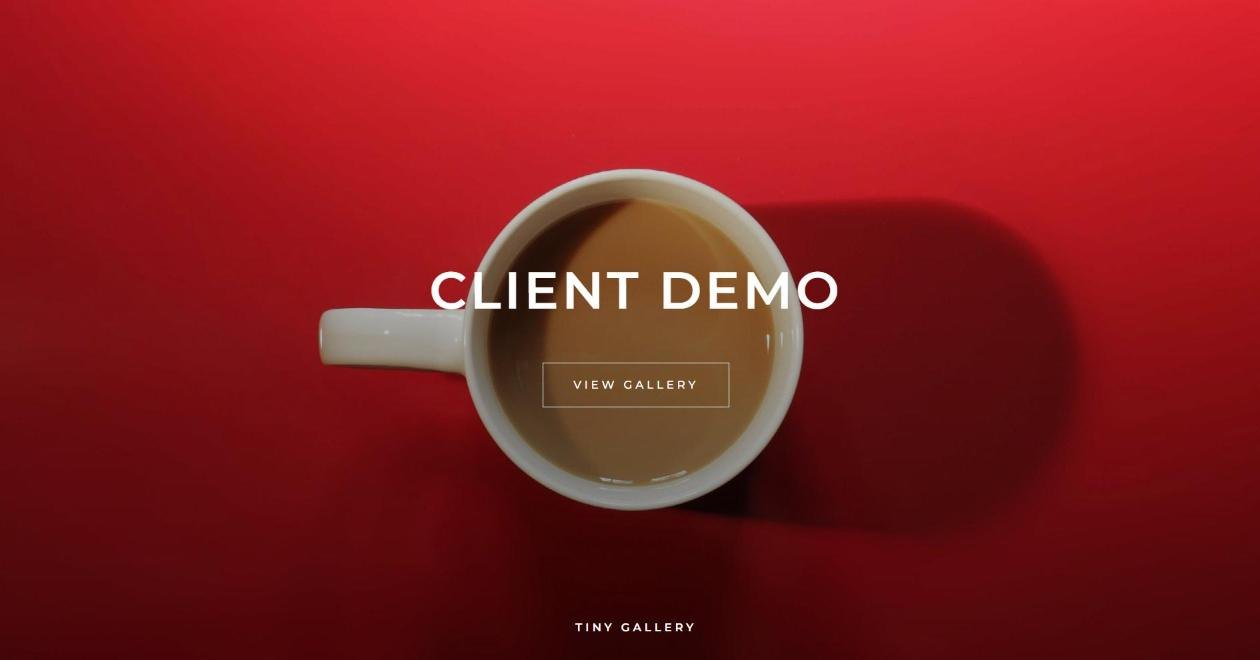
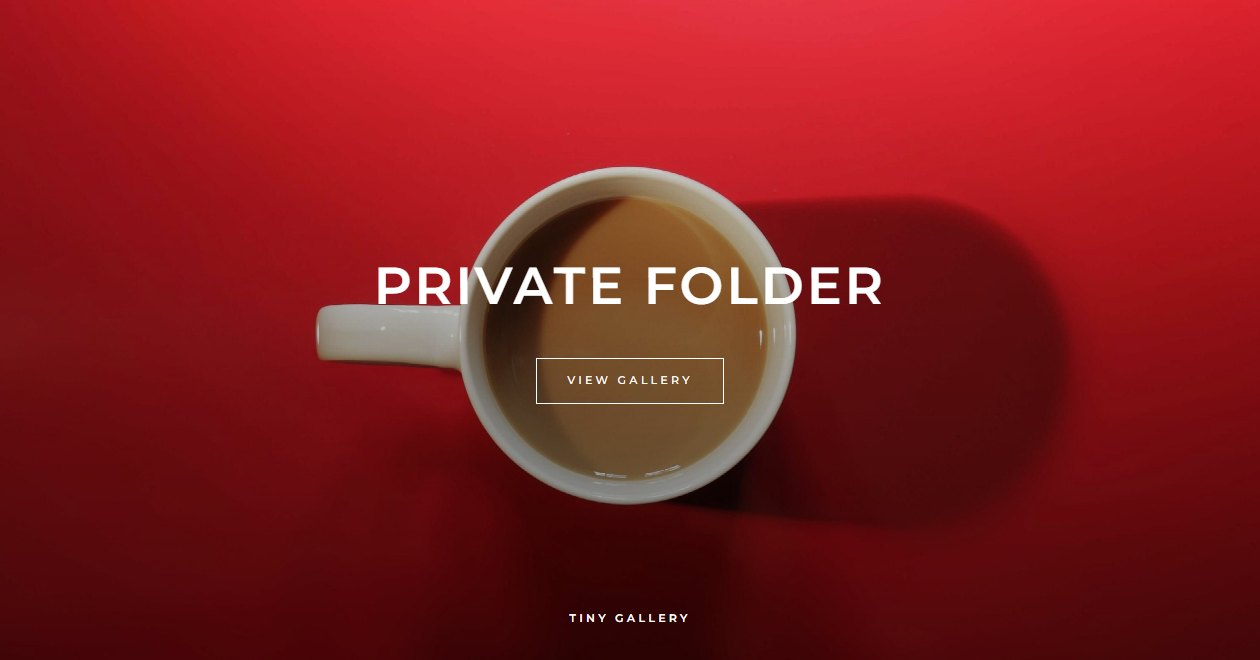
New screenshots and photo credits, hide the cover outline while selecting photos
- Retaken screenshots for the current version; new slideshow and trash screenshots
- Demo photo credits match the photos now in the demo
- README: upload steps (fingerprint, duplicates, 3 at a time, watermark) and trash access rules
- Select mode outlines only the picked photos, not the cover

Changed region(s): [[0.2476, 0.2424, 0.7119, 0.7879], [0.4643, 0.9091, 0.5571, 0.9697], [0.5571, 0.2727, 0.5881, 0.303]]

diff --git a/public/style.css b/public/style.css
@@ -1114,6 +1114,8 @@ select.field { appearance: auto; }
 .photo-grid.selecting .photo-cell { cursor: pointer; }
 .photo-grid.selecting .photo-cell img { transition: opacity .15s; }
 .photo-grid.selecting .photo-cell:not(.picked) img { opacity: .6; }
+/* In select mode only the picked photos are outlined, not the cover. */
+.photo-grid.selecting .photo-cell.selected:not(.picked) { outline-color: transparent; }
 .photo-cell.picked { outline-color: var(--text); }
 
 .photo-cell.picked::after {

diff --git a/README.md b/README.md
@@ -15,20 +15,28 @@ easy downloads, and private album links you can share with anyone.
 | Albums on the home page | Private folder |
 |---|---|
 | ![Album cards](docs/screenshots/home-albums.jpg) | ![Private folder cover](docs/screenshots/folder.jpg) |
-| **Album grid** | **Photo viewer with share, download and zoom** |
+| **Album grid with Download all** | **Photo viewer with slideshow, share, download and zoom** |
 | ![Album grid](docs/screenshots/album.jpg) | ![Photo viewer](docs/screenshots/viewer.jpg) |
 
 **On a phone:** cover, album grid and viewer.
 
 ![Phone screens](docs/screenshots/mobile.jpg)
 
+**Slideshow** for a TV at a party: speed, shuffle and a QR code guests can scan to open the album.
+
+![Slideshow with QR code](docs/screenshots/slideshow.jpg)
+
 **Admin panel** at `/admin`:
 
 | Settings and home page | Albums, drag to reorder |
 |---|---|
 | ![Admin settings](docs/screenshots/admin-overview.jpg) | ![Admin albums](docs/screenshots/admin-albums.jpg) |
-| **Private folder: link, password, expiry, downloads, favourites** | **Album: upload, cover, reorder** |
+| **Private folder: link, QR code, password, expiry, downloads, favourites** | **Album: upload, select to move or delete, reorder** |
 | ![Admin private folder](docs/screenshots/admin-folder.jpg) | ![Admin album editor](docs/screenshots/admin-album.jpg) |
+
+**Trash:** deleted photos and albums can be restored for 7 days.
+
+![Admin trash](docs/screenshots/admin-trash.jpg)
 
 ---
 
@@ -142,9 +150,11 @@ flowchart LR
 ### Uploads
 
 Resizing happens **in the admin's browser** (canvas, EXIF orientation applied), so the server never decodes
-images and stays far below the 10 ms CPU limit of the free plan. Each photo is uploaded in three steps:
+images and stays far below the 10 ms CPU limit of the free plan. The browser also adds the optional watermark to
+the display copy and works out a SHA-256 fingerprint of the file. Photos upload 3 at a time, each in three steps:
 
-1. `POST /api/admin/albums/<id>/photos` returns a new random key.
+1. `POST /api/admin/albums/<id>/photos` with the fingerprint returns a new random key, or `409` when the same file
+   is already in the album (it is skipped).
 2. `PUT /api/admin/upload/<key>/<t|d|o>` streams each file straight into R2 (the function never reads the bytes).
 3. `POST /api/admin/albums/<id>/photos/<key>` checks all three files exist and adds the photo to the album.
 
@@ -161,6 +171,8 @@ A 22 MB original uploads in a few seconds this way.
 - **Hidden** albums are visible to the admin only.
 - Deleting a folder makes its albums **hidden**, never public, so nothing private leaks onto the home page.
 - The admin can preview any album.
+- Photos and albums in the **trash** are gone from every page; their originals are not served (thumbnails stay
+  reachable only to someone who already has their random address) until restored or removed for good.
 
 ---
 
@@ -374,15 +386,16 @@ tinygallery/
 - QR codes: [qrcode-generator](https://github.com/kazuhikoarase/qrcode-generator) by Kazuhiko Arase, MIT.
   ZIP files: [client-zip](https://github.com/Touffy/client-zip) by David Junger, MIT.
 - Demo photos from [Unsplash](https://unsplash.com/license) via [Lorem Picsum](https://picsum.photos), by
-  Afroz Nawaf, Alan Haverty, Alejandro Escamilla, Aleks Dorohovich, Ales Krivec, Anton Sulsky, Artur Pokusin,
-  Bartosz Bąk, Ben Moore, Bonnie Meisels, Brooklyn Morgan, Carli Jean, Charlie Foster, Christopher Sardegna,
-  Daniel Robert, Dogancan Ozturan, Dominik Martin, Dorothee Hübner, Dorothy Lin, Forrest Cavale, Glen Carrie,
-  Go Wild, Griffin Keller, How-Soon Ngu, Jeff Sheldon, John French, Jon Eckert, Jonas Lavoie-Levesque,
-  Juskteez Vu, Justin Leibow, Kelley Bozarth, Kristian Karlsson, Lou Levit, Louis Pellissier, Lucas Löf,
-  Marta Pawlik, Martin Staněk, Milada Vigerova, Nathalie Gouzée, Nicholas Swanson, Oisin Conolly, Pawel Kadysz,
-  Philipp Henzler, Piotr Kwiatkowski, POR7O, RayBay, Rula Sibai, Ruxandra Mateiu, Ryan Mcguire,
-  Sebastian Kostrubala, Sebastien Gabriel, Shane Colella, Sonja Langford, Thomas Lefebvre, Tirza van Dijk,
-  Topich, Vadim Sherbakov, Wellington Sanipe, Zugr and Zwaddi. The photos are not part of this repository.
+  Afroz Nawaf, Alan Haverty, Alejandro Escamilla, Aleks Dorohovich, Aleksandra Boguslawska, Ales Krivec, Anton
+  Sulsky, Artur Pokusin, Bartosz Bąk, Ben Moore, Brooklyn Morgan, Carli Jean, Charlie Foster, Christopher
+  Sardegna, Daniel Robert, Dogancan Ozturan, Dominik Martin, Dorothy Lin, Forrest Cavale, Georgia Dixon, Glen
+  Carrie, Go Wild, Greg Shield, Griffin Keller, How-Soon Ngu, Jeff Sheldon, Jerry Adney, John French, Jon Eckert,
+  Jonas Lavoie-Levesque, Juskteez Vu, Justin Leibow, Kelley Bozarth, Kenneth Thewissen, Lou Levit, Lucas Löf,
+  Marta Pawlik, Martin Staněk, Milada Vigerova, Monika Majkowska, Nathalie Gouzée, Nicholas Swanson, Oisin
+  Conolly, Pawel Kadysz, Philipp Henzler, Piotr Kwiatkowski, POR7O, Rula Sibai, Ruxandra Mateiu, Ryan Mcguire,
+  Sebastian Kostrubala, Shane Colella, Shyamanta Baruah, Sonja Langford, Steven Spassov, Thomas Lefebvre, Tirza
+  van Dijk, Topich, Vadim Sherbakov, Wellington Sanipe, Zugr and Zwaddi. The photos are not part of this
+  repository.
 
 ## License
 
